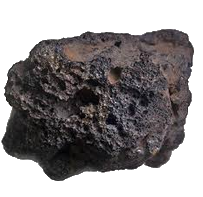
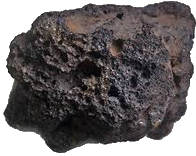
POST LUDUM 40. Clean some sprite to remove useless padding. Collision with spaceship now use triangle

diff --git a/executables/POST_LUDUMDARE/Post_Ludum_40/src/game.cpp b/executables/POST_LUDUMDARE/Post_Ludum_40/src/game.cpp
@@ -219,8 +219,17 @@ bool Game::FindPlayerCollision()
 	if (player_particle == nullptr)
 		return result;
 
-	chaos::box2    player_box    = chaos::box2(player_particle->position, player_particle->half_size);
+  glm::vec2 pp  = player_particle->position;
+  glm::vec2 phs = player_particle->half_size;
+
+	chaos::box2    player_box    = chaos::box2(pp, phs);
 	chaos::sphere2 player_sphere = chaos::GetInnerCircle(player_box);
+
+  chaos::triangle2 player_triangle;
+  player_triangle.a = glm::vec2(pp.x, pp.y + phs.y);
+  player_triangle.b = glm::vec2(pp.x + phs.x, pp.y - phs.y);
+  player_triangle.c = glm::vec2(pp.x - phs.x, pp.y - phs.y);
+  player_triangle = chaos::PrepareTriangleForCollision(player_triangle);
 
 	for (size_t i = 0 ; i < sprite_layers.size() ; ++i)
 	{
@@ -239,7 +248,7 @@ bool Game::FindPlayerCollision()
 			{				
 				chaos::sphere2 particle_sphere = chaos::GetInnerCircle(particle_box);
 
-				if (chaos::Collide(player_sphere, particle_sphere)) // more precise
+				if (chaos::Collide(player_triangle, particle_sphere)) // more precise
 				{
 					if (OnCollision(p, j, layer))
 					{
